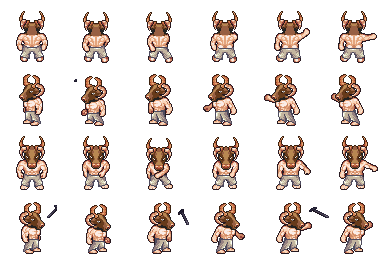
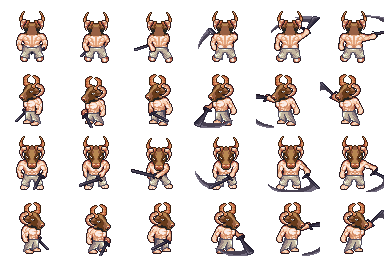
fix(combat): auto-orient attack animations toward enemies & fix sword layer clipping

diff --git a/tools/lpc_composer.py b/tools/lpc_composer.py
@@ -12,22 +12,52 @@ def resolve_path(rel_path):
         return p
     return None
 
+def normalize_layer(layer, target_w, target_h):
+    if layer.size == (target_w, target_h):
+        return layer
+    cols = target_w // 64
+    rows = target_h // 64
+    cell_w = layer.width // cols
+    cell_h = layer.height // rows
+    if cell_w == 128 and cell_h == 128:
+        out = Image.new("RGBA", (target_w, target_h), (0, 0, 0, 0))
+        for r in range(rows):
+            for c in range(cols):
+                box = (c * 128 + 32, r * 128 + 32, c * 128 + 96, r * 128 + 96)
+                out.paste(layer.crop(box), (c * 64, r * 64))
+        return out
+    elif cell_w == 192 and cell_h == 192:
+        out = Image.new("RGBA", (target_w, target_h), (0, 0, 0, 0))
+        for r in range(rows):
+            for c in range(cols):
+                box = (c * 192 + 64, r * 192 + 64, c * 192 + 128, r * 192 + 128)
+                out.paste(layer.crop(box), (c * 64, r * 64))
+        return out
+    return layer.crop((0, 0, target_w, target_h))
+
 def composite_layers(layer_paths, target_size=None):
-    base_img = None
+    loaded = []
+    target_w, target_h = None, None
     for lp in layer_paths:
         full_p = resolve_path(lp)
         if not full_p:
             continue
         try:
-            layer = Image.open(full_p).convert("RGBA")
-            if base_img is None:
-                base_img = layer.copy()
-            else:
-                if layer.size != base_img.size:
-                    layer = layer.crop((0, 0, base_img.size[0], base_img.size[1]))
-                base_img.alpha_composite(layer)
+            im = Image.open(full_p).convert("RGBA")
+            loaded.append(im)
+            if im.size[1] == 256:
+                target_w, target_h = im.size
         except Exception as e:
             print(f"Error loading {full_p}: {e}")
+    if not loaded:
+        return None
+    if target_w is None:
+        target_w, target_h = loaded[0].size
+
+    base_img = Image.new("RGBA", (target_w, target_h), (0, 0, 0, 0))
+    for layer in loaded:
+        norm = normalize_layer(layer, target_w, target_h)
+        base_img.alpha_composite(norm)
     return base_img
 
 # Character Presets Definitions
@@ -46,6 +76,7 @@ PRESETS = {
                 "weapon/sword/arming/universal/fg/walk/steel.png",
             ],
             "slash": [
+                "weapon/sword/arming/attack_slash/bg/steel.png",
                 "cape/solid/bg/slash.png",
                 "body/bodies/male/slash.png",
                 "legs/armour/plate/male/slash.png",
@@ -56,6 +87,7 @@ PRESETS = {
                 "weapon/sword/arming/attack_slash/fg/steel.png",
             ],
             "thrust": [
+                "weapon/sword/longsword/attack_thrust/behind/longsword.png",
                 "cape/solid/bg/thrust.png",
                 "body/bodies/male/thrust.png",
                 "legs/armour/plate/male/thrust.png",
@@ -63,6 +95,7 @@ PRESETS = {
                 "torso/armour/plate/male/thrust.png",
                 "cape/solid/fg/thrust.png",
                 "hat/helmet/armet/adult/thrust.png",
+                "weapon/sword/longsword/attack_thrust/longsword.png",
             ],
             "spellcast": [
                 "cape/solid/bg/spellcast.png",
@@ -101,13 +134,16 @@ PRESETS = {
                 "weapon/sword/arming/universal/fg/walk/iron.png",
             ],
             "slash": [
+                "weapon/sword/arming/attack_slash/bg/iron.png",
                 "body/bodies/skeleton/slash.png",
                 "head/heads/skeleton/adult/slash.png",
                 "weapon/sword/arming/attack_slash/fg/iron.png",
             ],
             "thrust": [
+                "weapon/sword/longsword/attack_thrust/behind/longsword.png",
                 "body/bodies/skeleton/thrust.png",
                 "head/heads/skeleton/adult/thrust.png",
+                "weapon/sword/longsword/attack_thrust/longsword.png",
             ],
             "hurt": [
                 "body/bodies/skeleton/hurt.png",
@@ -161,6 +197,7 @@ PRESETS = {
                 "weapon/sword/arming/universal/fg/walk/iron.png",
             ],
             "slash": [
+                "weapon/sword/arming/attack_slash/bg/iron.png",
                 "body/bodies/muscular/slash.png",
                 "legs/pants/muscular/slash.png",
                 "torso/armour/leather/male/slash.png",
@@ -168,10 +205,12 @@ PRESETS = {
                 "weapon/sword/arming/attack_slash/fg/iron.png",
             ],
             "thrust": [
+                "weapon/sword/longsword/attack_thrust/behind/longsword.png",
                 "body/bodies/muscular/thrust.png",
                 "legs/pants/muscular/thrust.png",
                 "torso/armour/leather/male/thrust.png",
                 "head/heads/orc/male/thrust.png",
+                "weapon/sword/longsword/attack_thrust/longsword.png",
             ],
             "hurt": [
                 "body/bodies/muscular/hurt.png",
@@ -198,15 +237,18 @@ PRESETS = {
                 "weapon/sword/arming/universal/fg/walk/bronze.png",
             ],
             "slash": [
+                "weapon/sword/arming/attack_slash/bg/bronze.png",
                 "body/bodies/child/slash.png",
                 "legs/shorts/shorts/male/slash.png",
                 "head/heads/goblin/adult/slash.png",
                 "weapon/sword/arming/attack_slash/fg/bronze.png",
             ],
             "thrust": [
+                "weapon/sword/longsword/attack_thrust/behind/longsword.png",
                 "body/bodies/child/thrust.png",
                 "legs/shorts/shorts/male/thrust.png",
                 "head/heads/goblin/adult/thrust.png",
+                "weapon/sword/longsword/attack_thrust/longsword.png",
             ],
             "hurt": [
                 "body/bodies/child/hurt.png",
@@ -232,6 +274,7 @@ PRESETS = {
                 "weapon/sword/arming/universal/fg/walk/iron.png",
             ],
             "slash": [
+                "weapon/sword/arming/attack_slash/bg/iron.png",
                 "body/bodies/muscular/slash.png",
                 "legs/pantaloons/muscular/slash.png",
                 "head/heads/minotaur/male/slash.png",
@@ -239,10 +282,12 @@ PRESETS = {
                 "weapon/sword/arming/attack_slash/fg/iron.png",
             ],
             "thrust": [
+                "weapon/sword/longsword/attack_thrust/behind/longsword.png",
                 "body/bodies/muscular/thrust.png",
                 "legs/pantaloons/muscular/thrust.png",
                 "head/heads/minotaur/male/thrust.png",
                 "head/horns/curled/adult/thrust.png",
+                "weapon/sword/longsword/attack_thrust/longsword.png",
             ],
             "hurt": [
                 "body/bodies/muscular/hurt.png",
